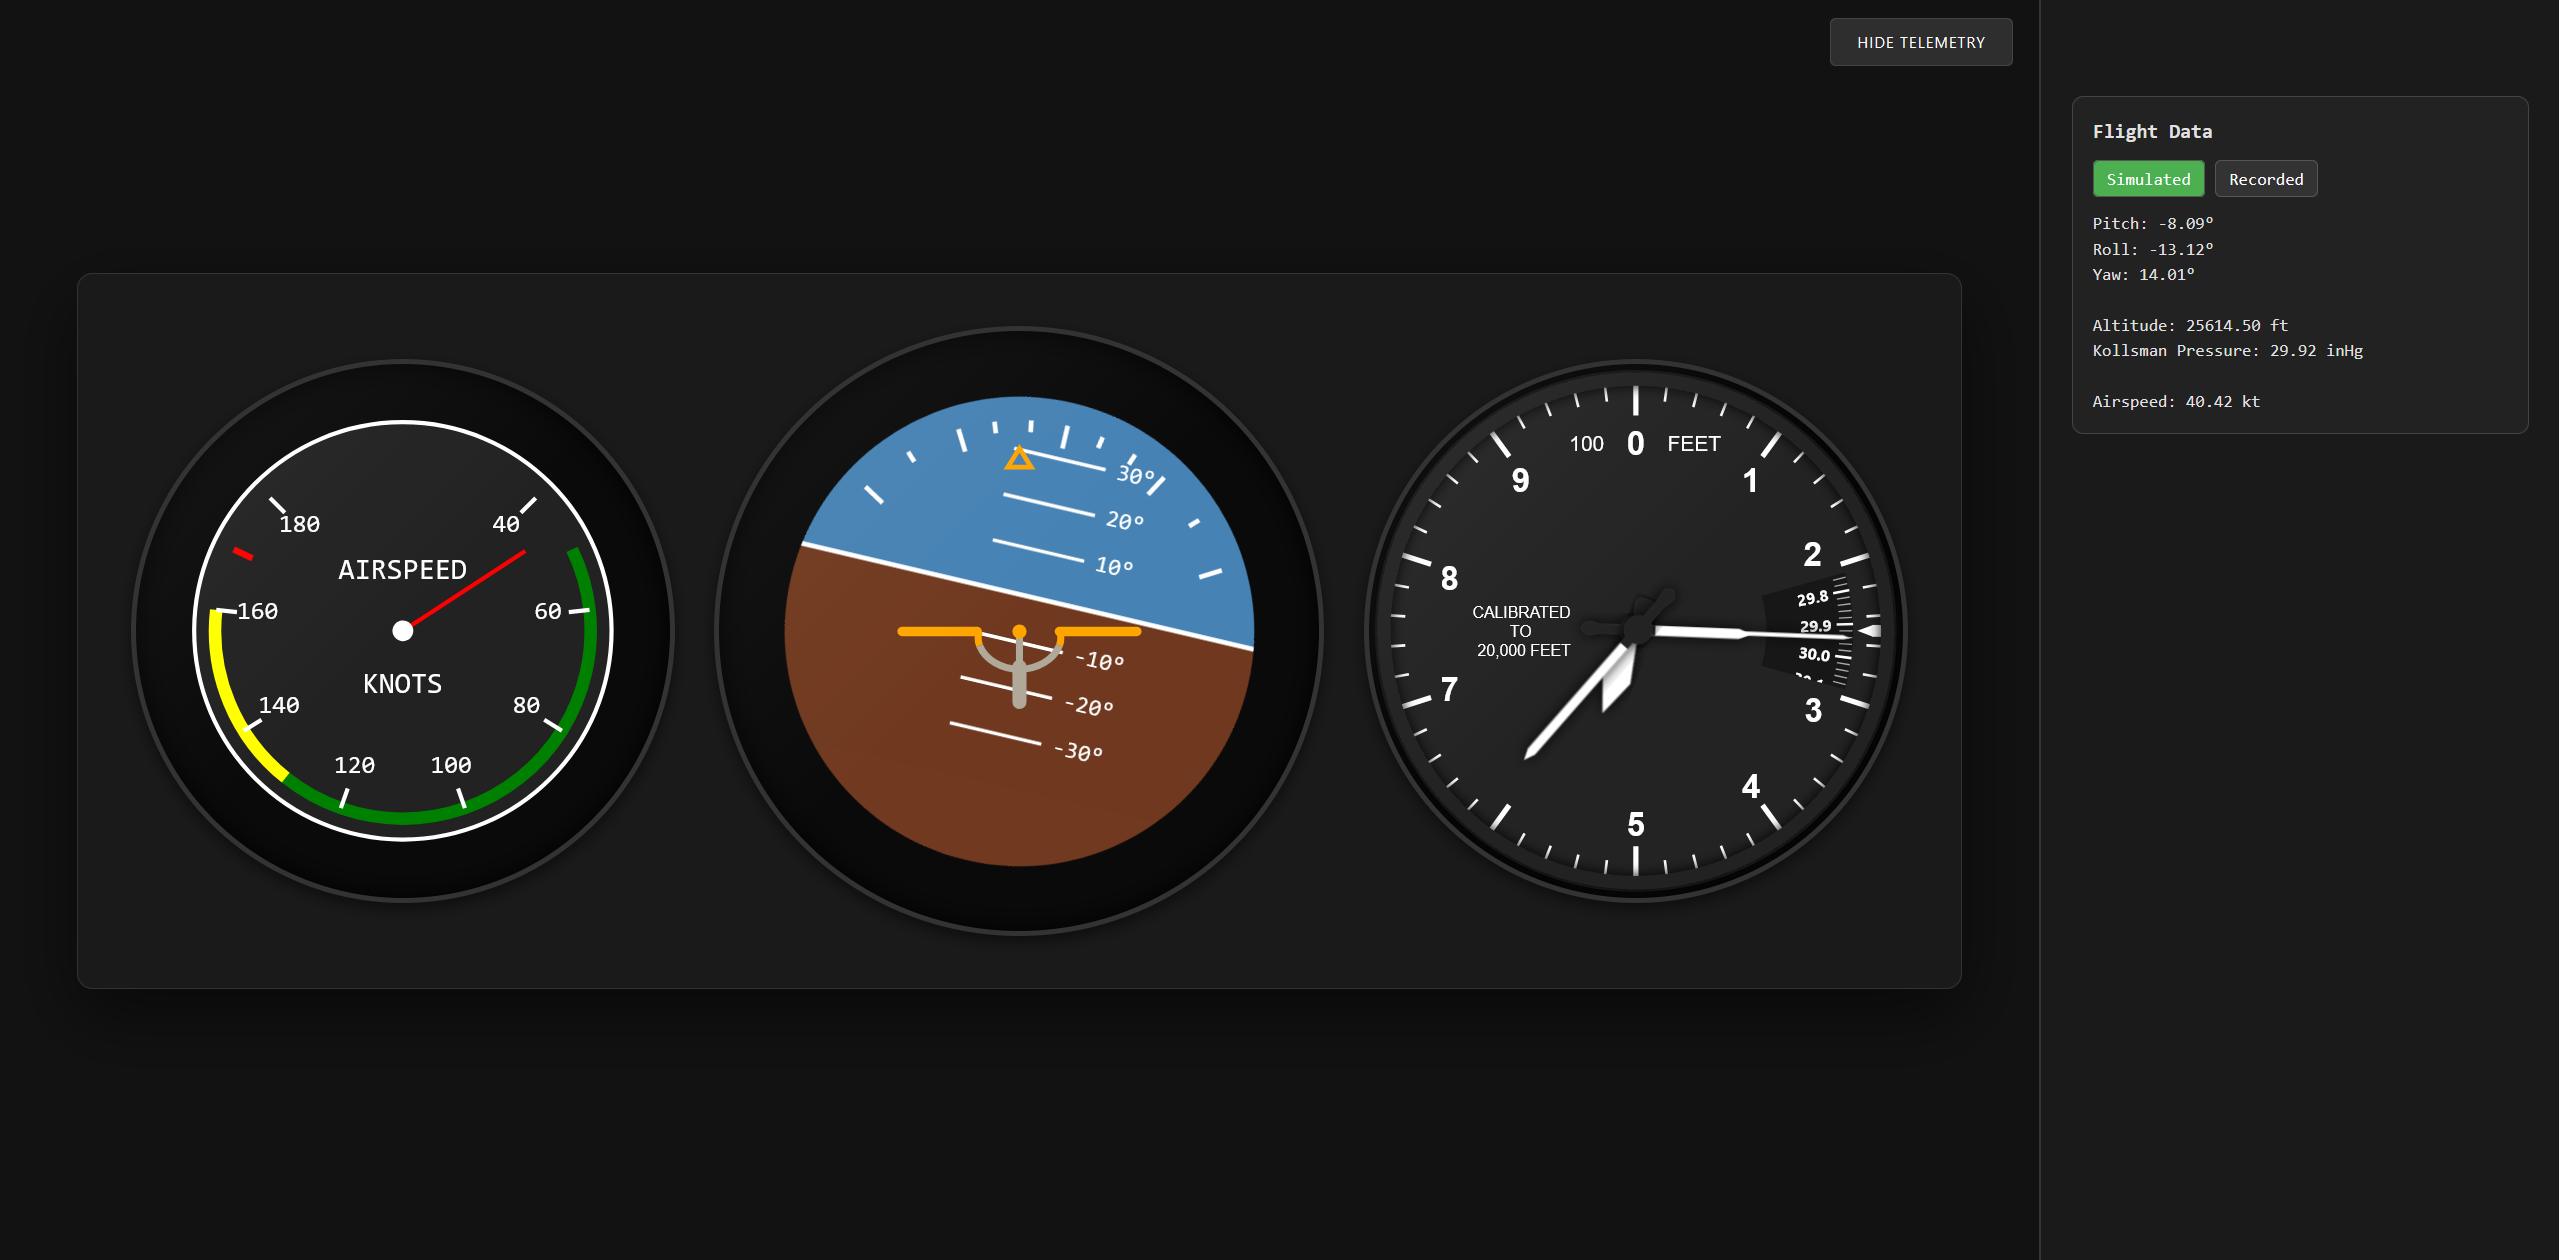
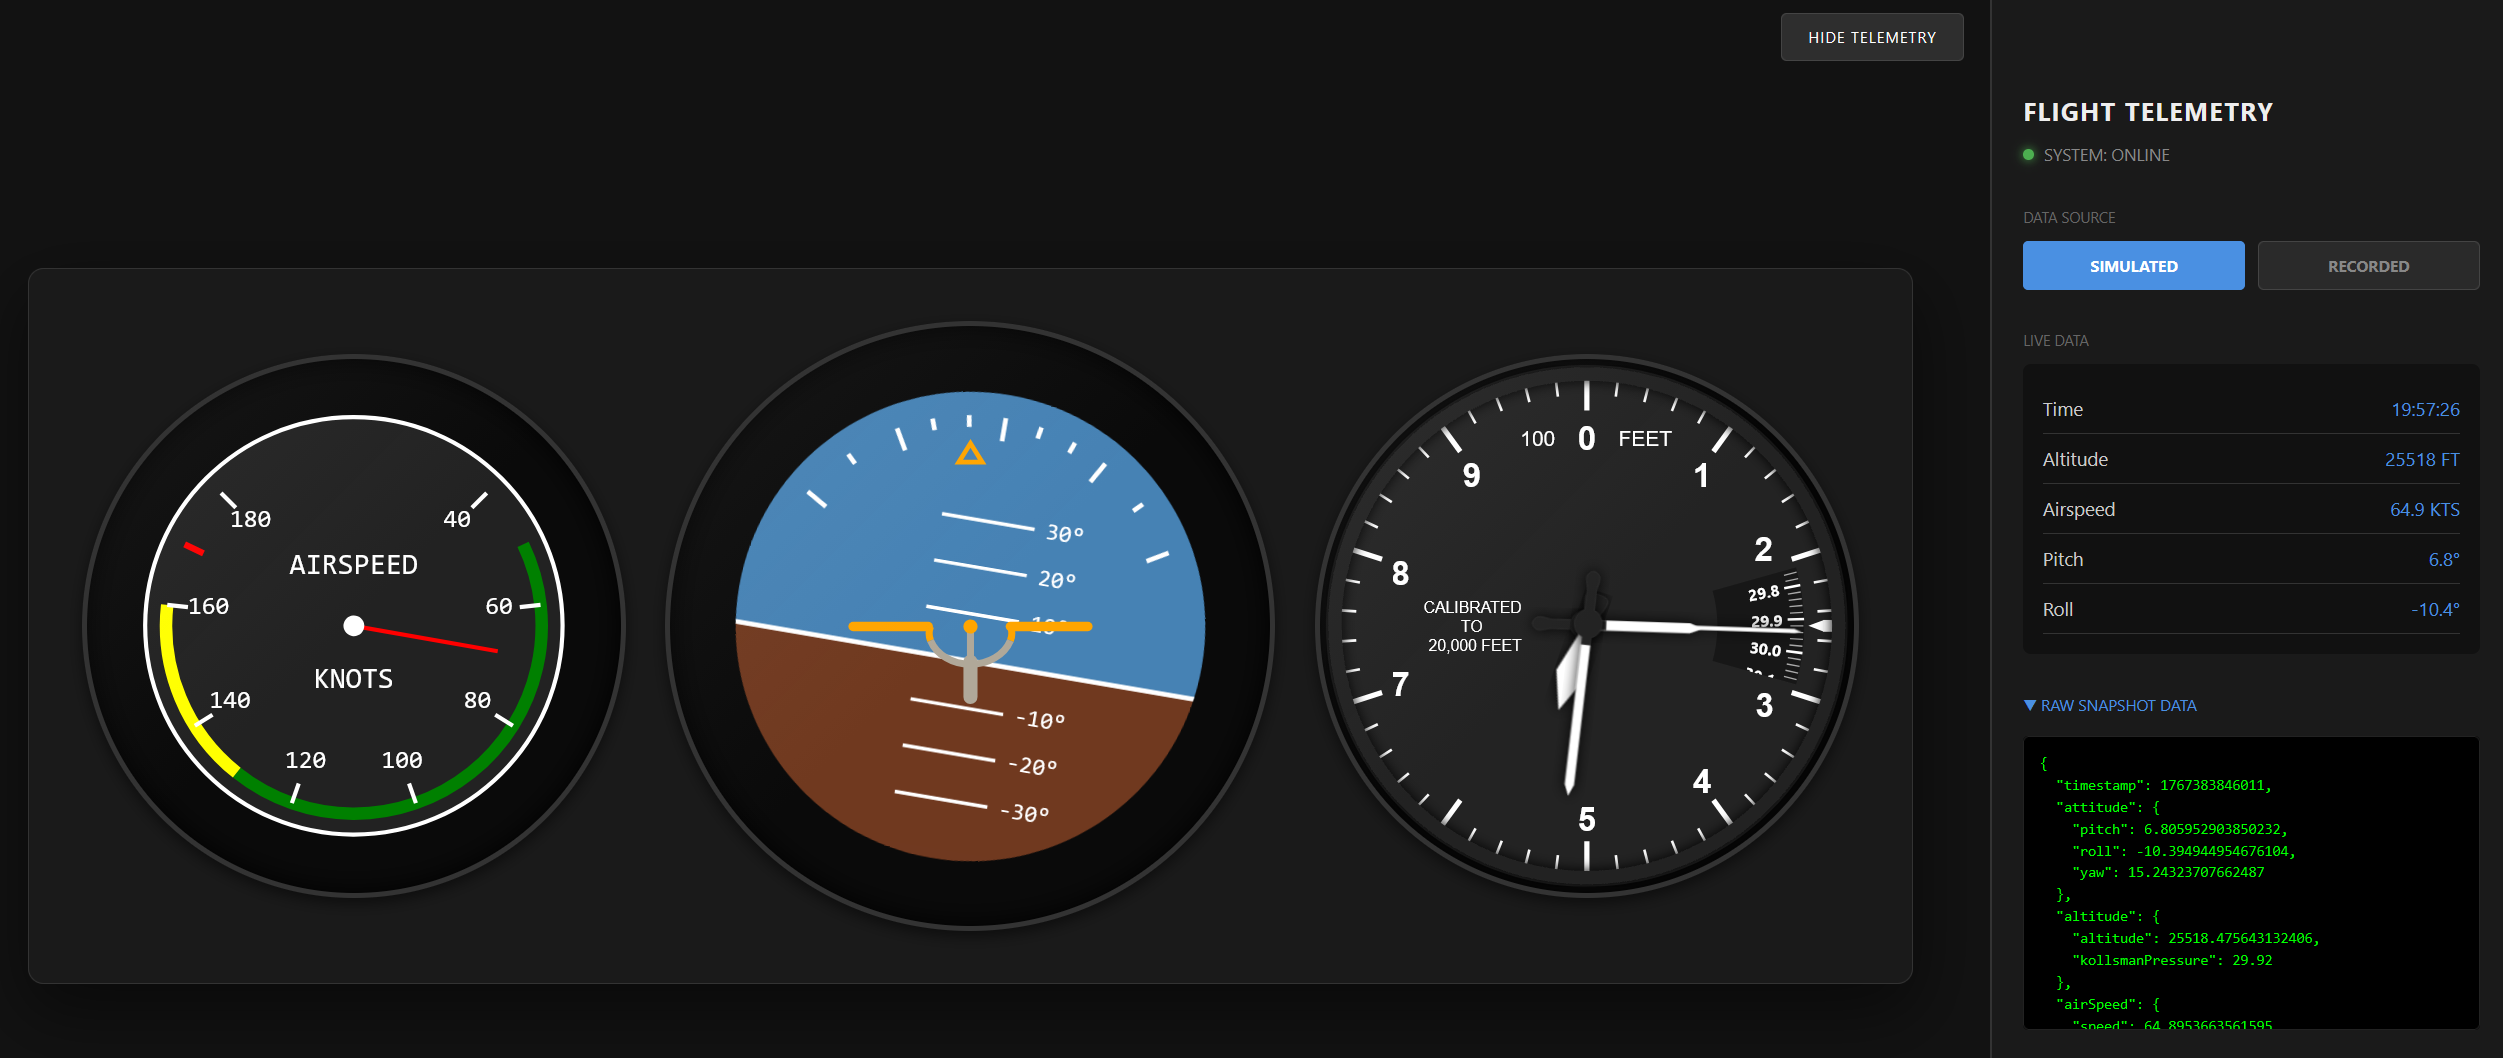
Add time to info panel and update ui preview image

diff --git a/frontend/src/components/infopanel/InfoPanel.tsx b/frontend/src/components/infopanel/InfoPanel.tsx
@@ -1,5 +1,6 @@
 import React, { useState } from 'react';
 import { useWebSocket } from '../../contexts/WebSocketContext';
+import { formatZuluTime } from '../../utils/timeUtils';
 
 export default function InfoPanel() {
   const { snapshot, switchProvider, isConnected, activeProvider, reconnectCountdown } =
@@ -102,6 +103,11 @@ export default function InfoPanel() {
         </p>
         {snapshot ? (
           <div style={{ backgroundColor: '#111', padding: '15px', borderRadius: '6px' }}>
+            <div style={dataRowStyle}>
+              <span>Time</span>
+              <span style={{ color: '#4a90e2' }}>{formatZuluTime(snapshot.timestamp)}</span>
+            </div>
+            {/* ... rest of the rows ... */}
             <div style={dataRowStyle}>
               <span>Altitude</span>
               <span style={{ color: '#4a90e2' }}>{snapshot.altitude.altitude.toFixed(0)} FT</span>

diff --git a/frontend/src/utils/timeUtils.ts b/frontend/src/utils/timeUtils.ts
@@ -1,0 +1,11 @@
+/**
+ * Formats a numeric timestamp into a clean HH:mm:ss string (Zulu/UTC).
+ */
+export const formatZuluTime = (timestamp: number): string => {
+  const date = new Date(timestamp);
+  const h = String(date.getUTCHours()).padStart(2, '0');
+  const m = String(date.getUTCMinutes()).padStart(2, '0');
+  const s = String(date.getUTCSeconds()).padStart(2, '0');
+  
+  return `${h}:${m}:${s}`;
+};
